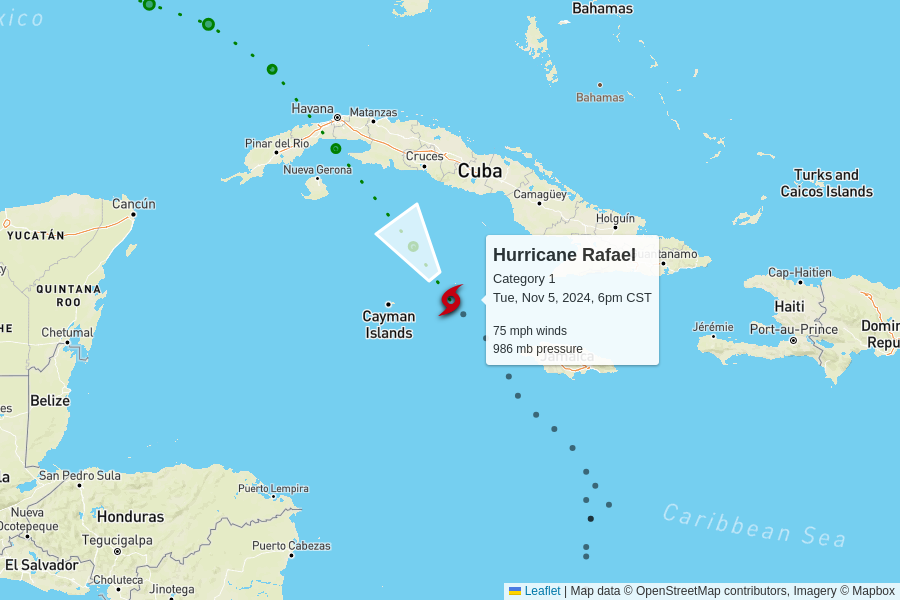
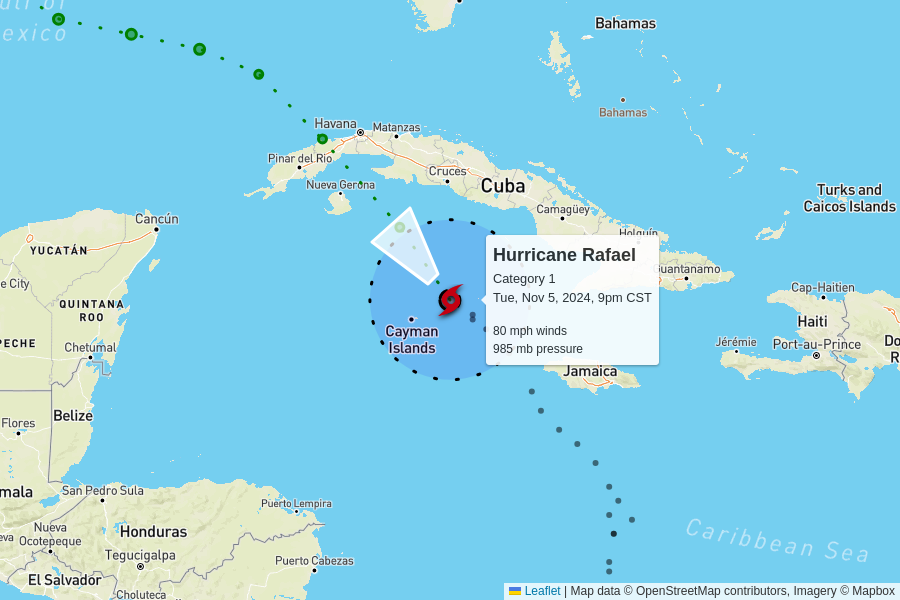
automatic update

diff --git a/docs/index.html b/docs/index.html
@@ -102,7 +102,7 @@
         <td colspan="6" class="storm category-1" >
           <h2>
             Hurricane Rafael - Category 1
-            <p class="updated">last updated <span data-time>2024-11-06T00:20:00.000Z</span></p>
+            <p class="updated">last updated <span data-time>2024-11-06T03:00:00.000Z</span></p>
           </h2>
         </td>
       </tr>
@@ -117,12 +117,12 @@
       </tr>
       <tr>
         <td class="spacer"></td>
-        <td>75 mph<br>+5 mph since last update</td>
-        <td>986 mb<br>-1 mb since last update</td>
+        <td>80 mph<br>+5 mph since last update</td>
+        <td>985 mb<br>-1 mb since last update</td>
         <td>
-          15 mph to the northwest
+          13 mph to the northwest
           <br/>
-          <span style="display: inline-block; font-size: 1.5em; transform: rotate(325deg);">↑</span>
+          <span style="display: inline-block; font-size: 1.5em; transform: rotate(320deg);">↑</span>
         </td>
         <td><a href="https://raw.githubusercontent.com/mgwalker/atlantic-hurricanes/main/data/csv/AL182024.csv">AL182024.csv</a></td>
         <td><a href="https://www.nhc.noaa.gov/archive/2024/RAFAEL.shtml?">NHC advisories</a></td>
